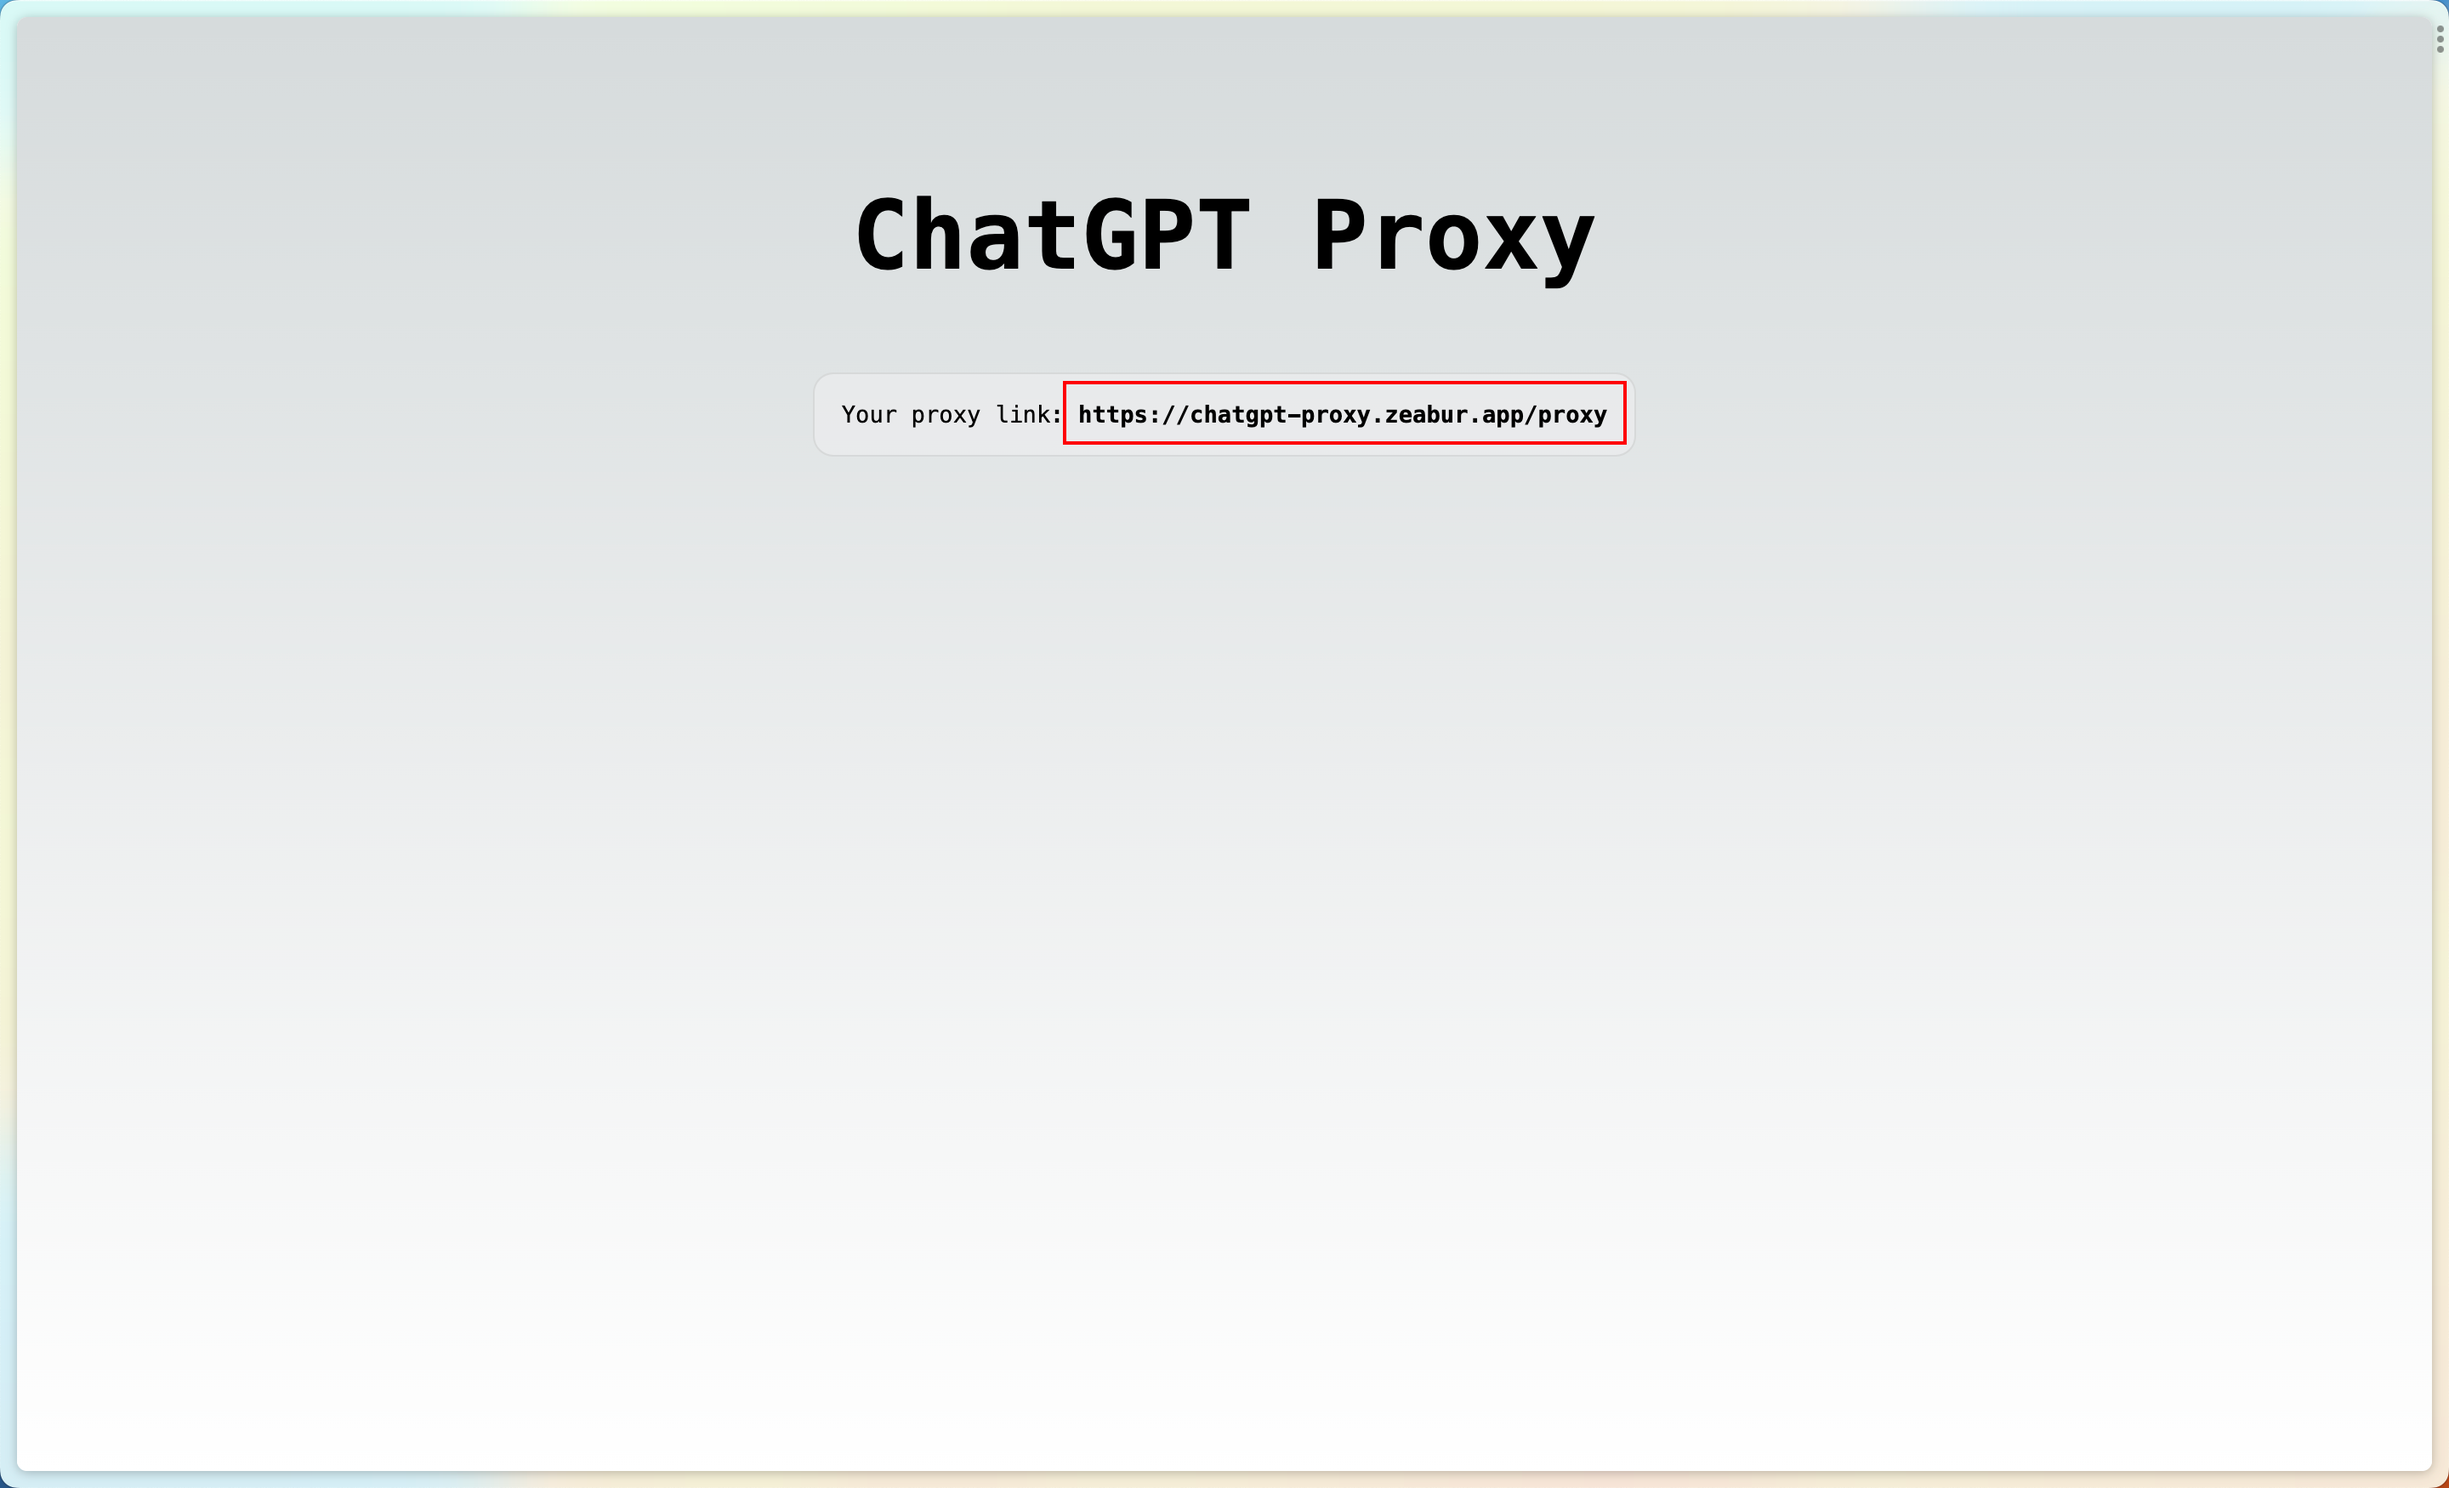
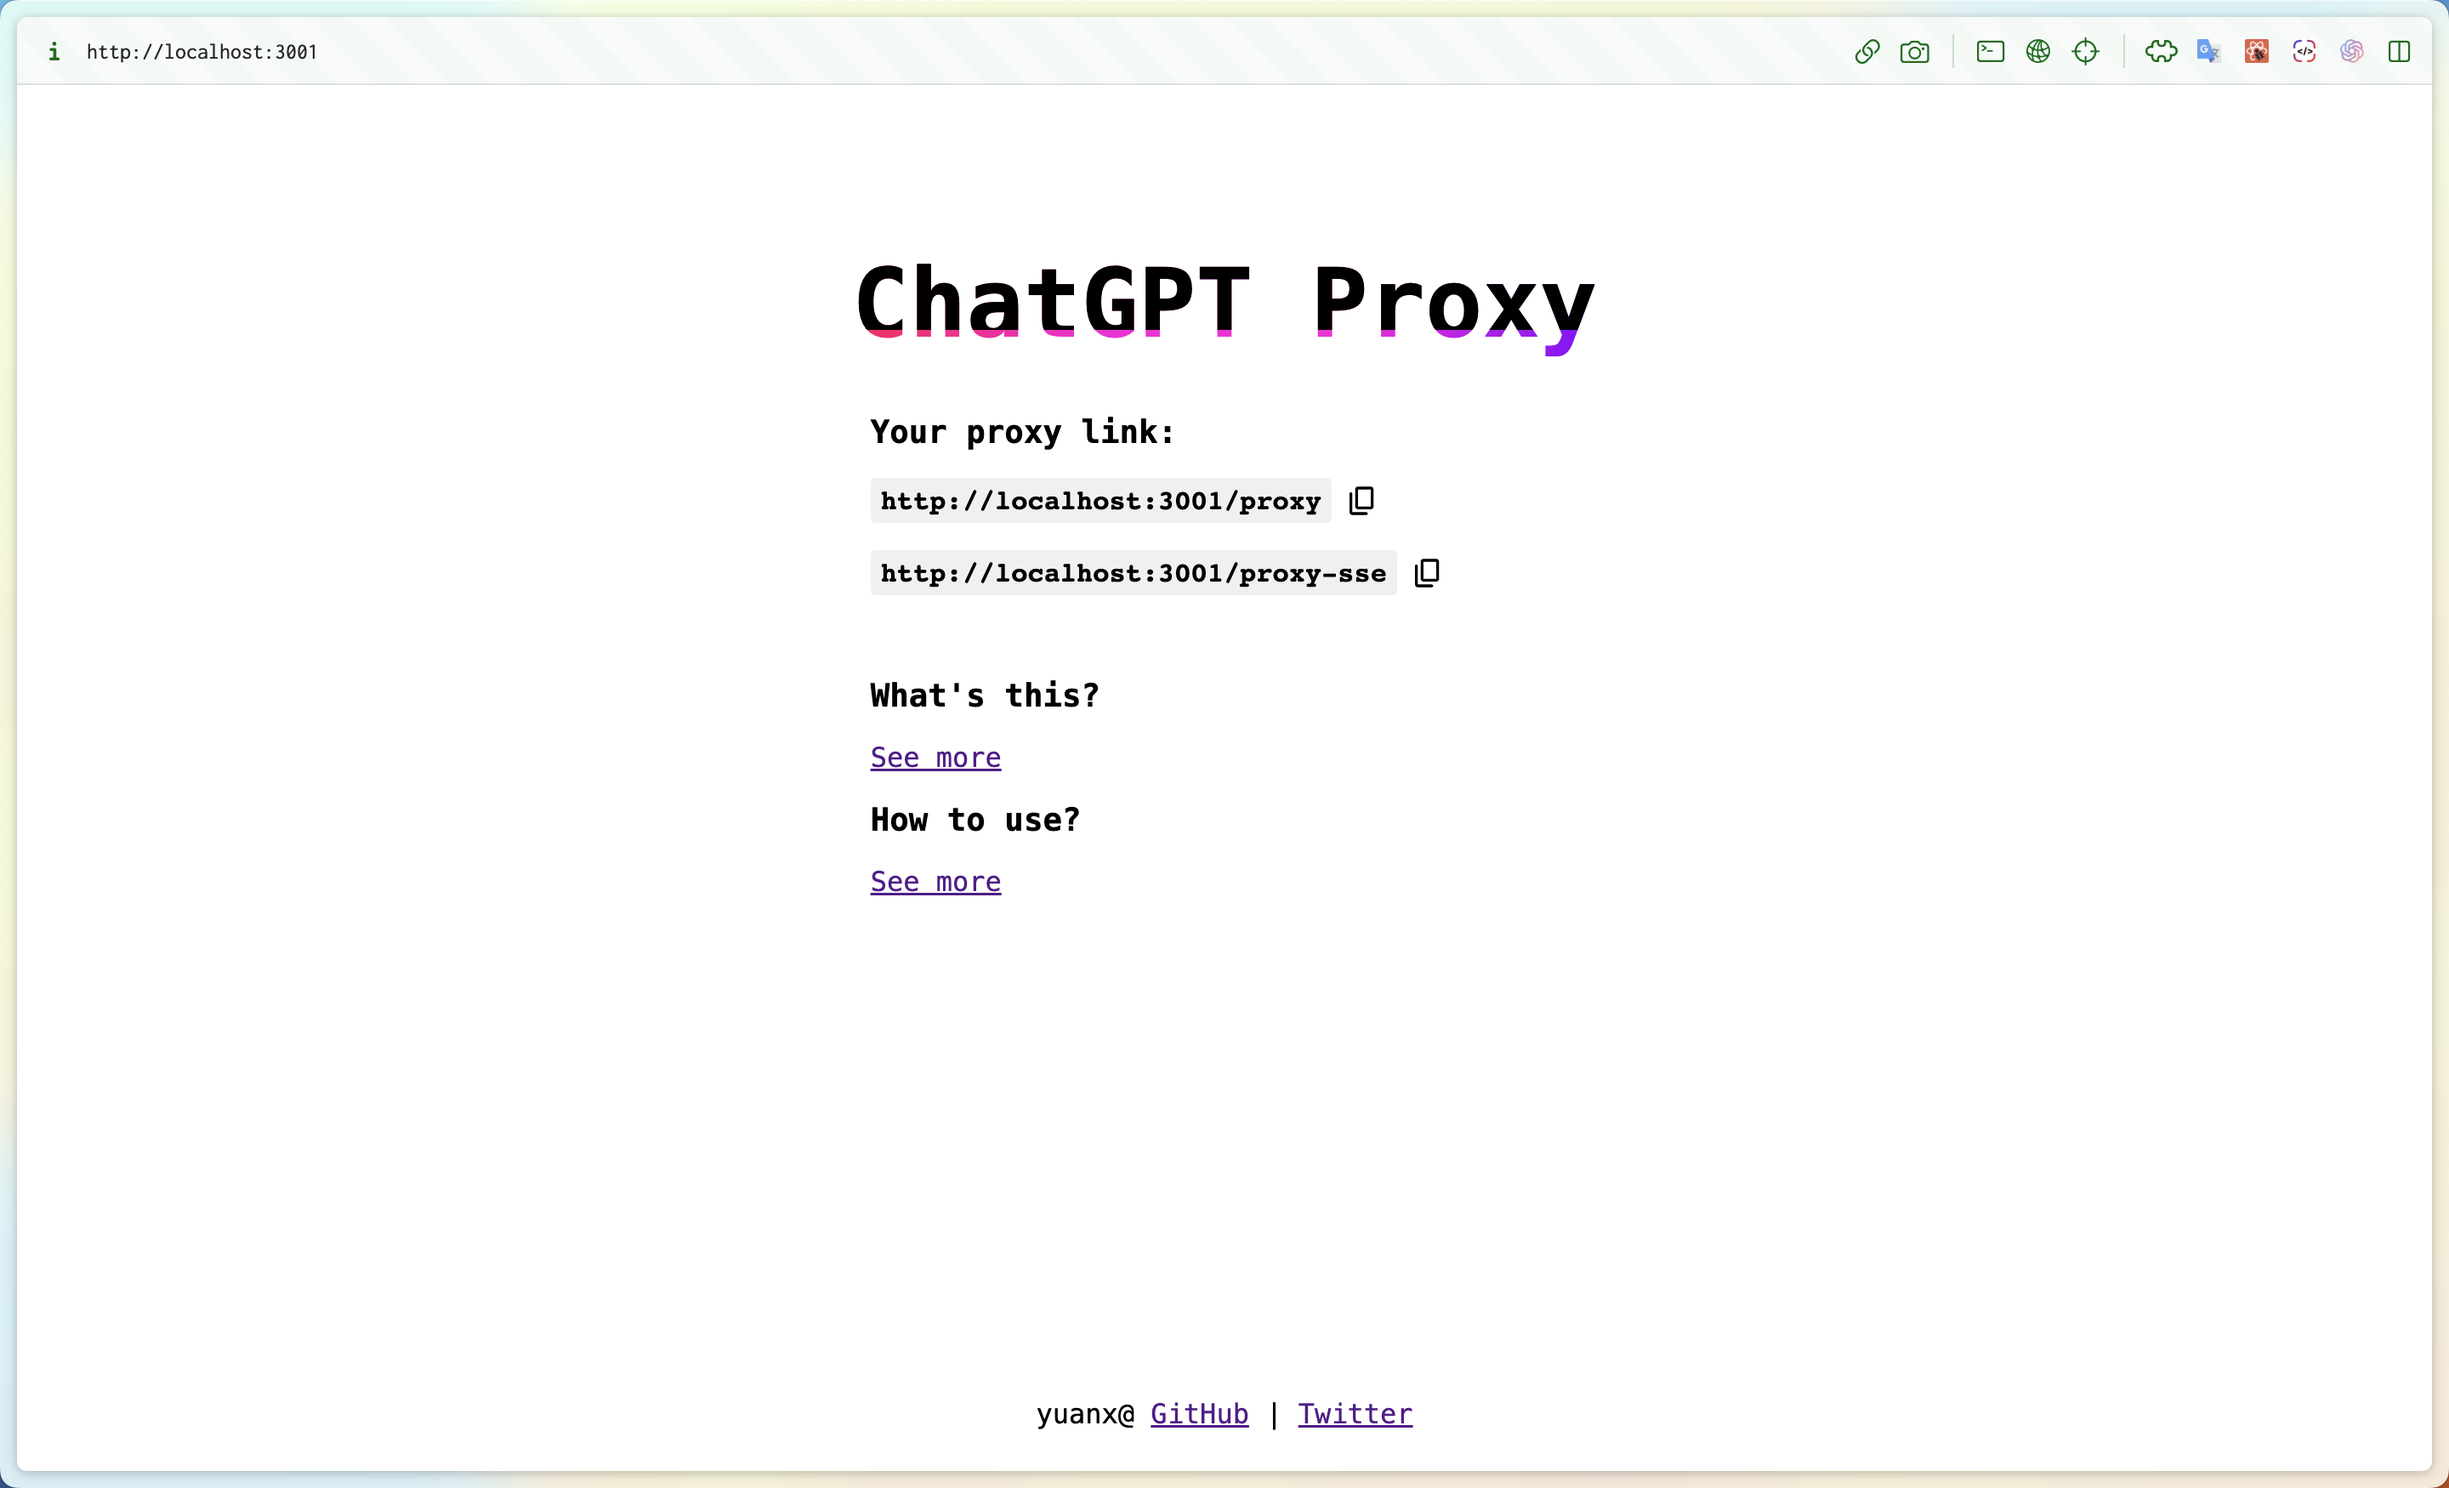
feat: Support SSE

diff --git a/src/pages/api/proxy-sse.js b/src/pages/api/proxy-sse.js
@@ -1,0 +1,95 @@
+// Next.js API route support: https://nextjs.org/docs/api-routes/introduction
+import { createParser } from "eventsource-parser";
+
+async function myFetch(url, options) {
+  const { timeout, ...fetchOptions } = options;
+  const controller = new AbortController();
+  const timeoutId = setTimeout(() => controller.abort(), timeout || 30000);
+
+  try {
+    const res = await fetch(url, {
+      ...fetchOptions,
+      signal: controller.signal,
+    });
+    clearTimeout(timeoutId);
+    return res;
+  } catch (error) {
+    clearTimeout(timeoutId);
+    throw error;
+  }
+}
+
+async function* streamAsyncIterable(stream) {
+  const reader = stream.getReader();
+  try {
+    while (true) {
+      const { done, value } = await reader.read();
+      if (done) {
+        return;
+      }
+      yield value;
+    }
+  } finally {
+    reader.releaseLock();
+  }
+}
+
+export default async function handler(req, res) {
+  const {
+    query: { path },
+    method,
+    body,
+    headers: { host, ...headers },
+  } = req;
+
+  const requestBody = typeof body === "object" ? JSON.stringify(body) : body;
+
+  const options = {
+    method,
+    timeout: 30000,
+    headers,
+    body: requestBody,
+    onMessage: (data) => {
+      res.write("data: " + data + "\n\n");
+      if (data.toString() === "[DONE]") {
+        res.end();
+      }
+    },
+  };
+
+  try {
+    const _path = path[0] === "/" ? path : `/${path}`;
+    const response = await myFetch(`https://api.openai.com${_path}`, options);
+
+    if (response.ok) {
+      res.writeHead(response.status, response.headers);
+      const parser = createParser(
+        ({ type, data }) => type === "event" && options.onMessage(data)
+      );
+
+      if (!response.body.getReader) {
+        const body = response.body;
+        if (!body.on || !body.read) {
+          throw new Error('unsupported "fetch" implementation');
+        }
+        body.on("readable", () => {
+          let chunk;
+          while (null !== (chunk = body.read())) {
+            parser.feed(chunk.toString());
+          }
+        });
+      } else {
+        for await (const chunk of streamAsyncIterable(response.body)) {
+          const str = new TextDecoder().decode(chunk);
+          parser.feed(str);
+        }
+      }
+    } else {
+      response.json().then((err) => {
+        res.status(response.status).json(err);
+      });
+    }
+  } catch (error) {
+    res.status(500).json({ error: error.message });
+  }
+}

diff --git a/src/pages/index.js b/src/pages/index.js
@@ -7,11 +7,13 @@ import "react-toastify/dist/ReactToastify.css";
 
 export default function Home() {
   const [link, setLink] = useState("");
+  const [linkSSE, setLinkSSE] = useState("");
   const [copied, setCopied] = useState(false);
 
   useEffect(() => {
     const { origin } = location;
     setLink(`${origin}/proxy`);
+    setLinkSSE(`${origin}/proxy-sse`);
     const clipboard = new ClipboardJS("#copy");
     clipboard.on("success", notify);
     return () => clipboard.destroy();
@@ -41,13 +43,32 @@ export default function Home() {
               ChatGPT Proxy
             </h1>
           </div>
+        </div>
+        <div className={styles.content}>
+          <h3>Your proxy link:</h3>
           <p>
-            Your proxy link:
             <code className={styles.code}>{link}</code>
             <svg
               id="copy"
               className={styles.copyIcon}
               data-clipboard-text={link}
+              xmlns="http://www.w3.org/2000/svg"
+              width="20"
+              height="20"
+              viewBox="0 0 24 24"
+            >
+              <path
+                fill="currentColor"
+                d="M9 18q-.825 0-1.412-.587Q7 16.825 7 16V4q0-.825.588-1.413Q8.175 2 9 2h9q.825 0 1.413.587Q20 3.175 20 4v12q0 .825-.587 1.413Q18.825 18 18 18Zm0-2h9V4H9v12Zm-4 6q-.825 0-1.413-.587Q3 20.825 3 20V7q0-.425.288-.713Q3.575 6 4 6t.713.287Q5 6.575 5 7v13h10q.425 0 .713.288q.287.287.287.712t-.287.712Q15.425 22 15 22ZM9 4v12V4Z"
+              />
+            </svg>
+          </p>
+          <p>
+            <code className={styles.code}>{linkSSE}</code>
+            <svg
+              id="copy"
+              className={styles.copyIcon}
+              data-clipboard-text={linkSSE}
               xmlns="http://www.w3.org/2000/svg"
               width="20"
               height="20"

diff --git a/src/styles/Home.module.css b/src/styles/Home.module.css
@@ -50,11 +50,20 @@
   transition: all 0.6s;
 }
 
-.description p {
+.content p {
   display: flex;
   align-items: center;
   font-size: 16px;
   gap: 8px;
+}
+
+.content {
+  text-align: left;
+  display: flex;
+  flex-direction: column;
+  gap: 16px;
+  width: 95%;
+  margin-top: 32px;
 }
 
 .code {

diff --git a/next.config.js b/next.config.js
@@ -7,6 +7,10 @@ const nextConfig = {
         source: "/proxy/:slug*",
         destination: "https://api.openai.com/:slug*",
       },
+      {
+        source: "/proxy-sse/:slug*",
+        destination: "/api/proxy-sse?path=:slug*",
+      },
     ];
   },
 };

diff --git a/README.md b/README.md
@@ -1,12 +1,14 @@
 ![Banner](./public/chatgpt-proxy-banner.png)
 
-One-click deployment of the ChatGPT private proxy, power by Next.js
+One-click deployment of the ChatGPT private proxy, power by Next.js, support SSE!
 
 English | [简体中文](./README-CN.md)
 
 ## Introduction
 
 This project is based on Next.js, use Rewriter to complete proxy function, only [2 lines](https://github.com/imyuanx/chatgpt-proxy/blob/main/next.config.js#L7-L8) of core code, combining Zeabur or Vercel can easily host your private proxy service
+
+ps: The SSE part of the code from [openai-api-proxy](https://github.com/easychen/openai-api-proxy)
 
 ### [Demo](https://chatgpt-proxy-preview.zeabur.app)
 
@@ -101,7 +103,7 @@ Whether you use Zeabur or Vercel, you will get the following proxy service after
 
 <img width="600" src="public/proxy.png" alt="Proxy service"/>
 
-The address in the red box is fully forwarded to `https://api.openai.com` and is accessible within the country
+The resulting two addresses will be fully forwarded to `https://api.openai.com` and both will be domestically accessible, where `.../proxy-sse` supports SSE
 
 You can use the proxy service in applications that support custom apis to invoke the "openai" interface domestically
 

diff --git a/README-CN.md b/README-CN.md
@@ -1,12 +1,14 @@
 ![Banner](./public/chatgpt-proxy-banner.png)
 
-一键式部署 ChatGPT 私有代理，由 Next.js 驱动
+一键式部署 ChatGPT 私有代理，由 Next.js 驱动，支持 SSE！
 
 简体中文 | [English](./README.md)
 
 ## 简介
 
 此项目基于 Next.js，使用 Rewriter 完成代理功能，核心代码只有 [2 行](https://github.com/imyuanx/chatgpt-proxy/blob/main/next.config.js#L7-L8)，结合 Zeabur 或 Vercel 可以很简单的托管你的私有代理服务
+
+ps: SSE 部分的代码来自 [openai-api-proxy](https://github.com/easychen/openai-api-proxy)
 
 ### [示例](https://chatgpt-proxy-preview.zeabur.app)
 
@@ -101,7 +103,8 @@
 
 <img width="600" src="public/proxy.png" alt="Proxy service" />
 
-其中红框中的地址会完全转发到`https://api.openai.com`，并且此地址在国内可访问
+得到的两个地址都会完全转发到 `https://api.openai.com` 并且都可在国内可访问，其中 `.../proxy-sse` 支持 SSE
+
 
 你可以在支持自定义 `API` 的应用中使用你的代理服务，实现在国内调用 `openai` 接口的目的
 
